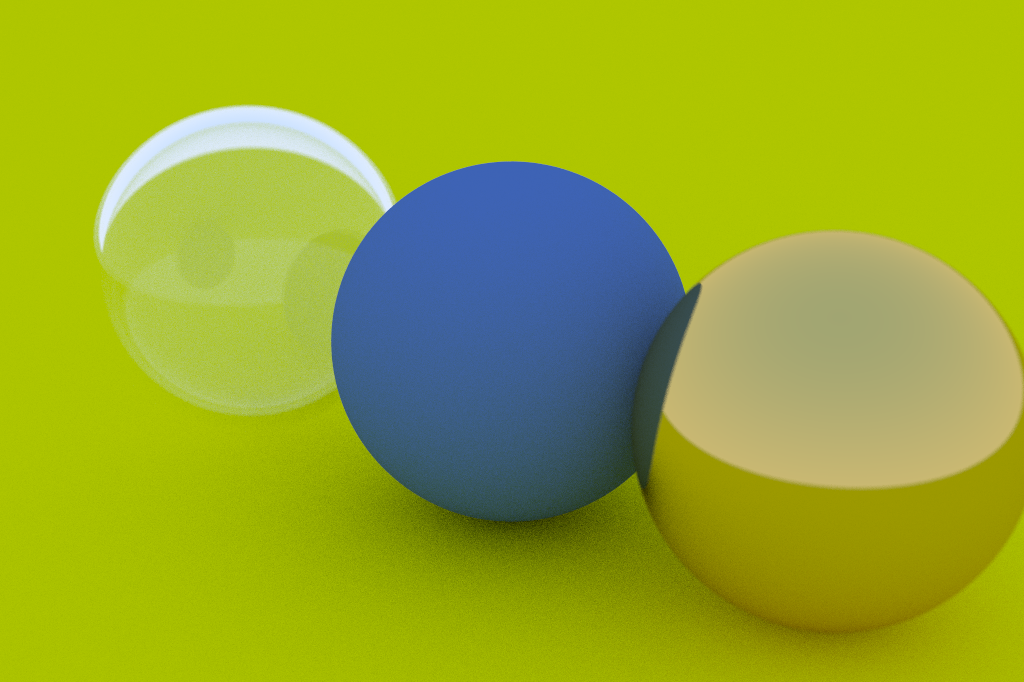
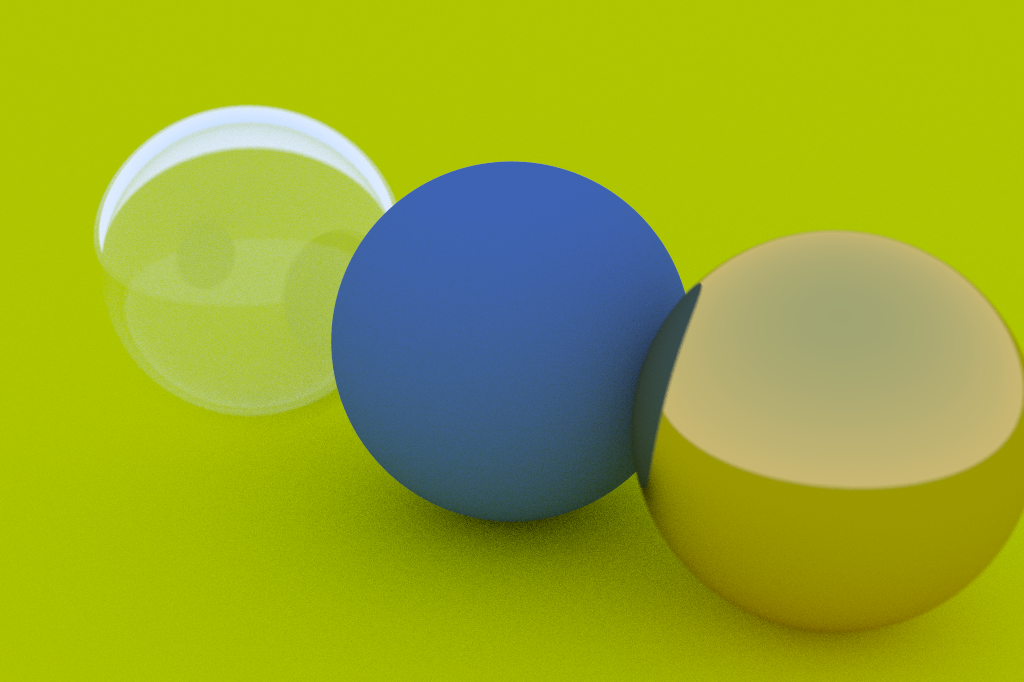
Changed multithreading from one thread per pixel, to a per rectangle basis

Changed region(s): [[0.0938, 0.2155, 0.375, 0.6158]]

diff --git a/PathTracer/PathTracer.cpp b/PathTracer/PathTracer.cpp
@@ -105,9 +105,10 @@ hittable_list random_spheres_scene() {
 void sample_pixel
 (
 	int w, int h,
-	const int image_width, const int image_height, const int samples_per_pixel, const int max_depth,
+	const int image_width, const int image_height,
+	const int samples_per_pixel, const int max_depth, const int image_channels,
 	camera cam, hittable_list world,
-	unsigned char* data, uint32_t ind
+	unsigned char* data
 )
 {
 	color pixel_color(0, 0, 0);
@@ -119,7 +120,27 @@ void sample_pixel
 		pixel_color += ray_color(r, world, max_depth);
 	}
 
+	const int ind = ((image_height - h - 1) * image_width + w) * image_channels;
 	write_color(&data[ind], pixel_color, samples_per_pixel);
+}
+
+void sample_rect
+(
+	int x_s, int y_s, const int rect_width, const int rect_height,
+	const int image_width, const int image_height,
+	const int samples_per_pixel, const int max_depth, const int image_channels,
+	camera cam, hittable_list world,
+	unsigned char* data
+)
+{
+	int y_max = std::min(y_s + rect_height, image_height);
+	int x_max = std::min(x_s + rect_width, image_width);
+
+	for (int y = y_s; y < y_max; ++y) {
+		for (int x = x_s; x < x_max; ++x) {
+			sample_pixel(x, y, image_width, image_height, samples_per_pixel, max_depth, image_channels, cam, world, data);
+		}
+	}
 }
 
 int main() {
@@ -158,8 +179,10 @@ int main() {
 	hittable_list world = sample_scene();
 
 	// Render
-
+	
 	unsigned char * data = new unsigned char[image_width * image_height * image_channels];
+	const int rect_width = 64;
+	const int rect_height = 64;
 
 	auto time_s = std::chrono::high_resolution_clock::now();
 
@@ -168,18 +191,17 @@ int main() {
 
 	// Queue all jobs in the thread pool
 	printf("Starting work...\n");
-	pool.Start(image_width, image_width * image_height);
+	pool.Start(1, int(std::ceil(double(image_height) / rect_height) * std::ceil(double(image_width) / rect_width)));
 
-	uint32_t ind = 0;
-	for (int h = image_height - 1; h >= 0; --h) {
-		for (int w = 0; w < image_width; ++w) {
+	for (int y = 0; y < image_height; y += rect_height) {
+		for (int x = 0; x < image_width; x += rect_width) {
 			pool.QueueJob(
-				[w, h, image_width, image_height, samples_per_pixel, max_depth, cam, world, data, ind]
+				[x, y, rect_width, rect_height, image_width, image_height, samples_per_pixel, max_depth, image_channels, cam, world, data]
 				{
-					sample_pixel(w, h, image_width, image_height, samples_per_pixel, max_depth, cam, world, data, ind);
+					sample_rect(x, y, rect_width, rect_height,
+						image_width, image_height, samples_per_pixel, max_depth, image_channels,
+						cam, world, data);
 				});
-			
-			ind += image_channels;
 		}
 	}
 
